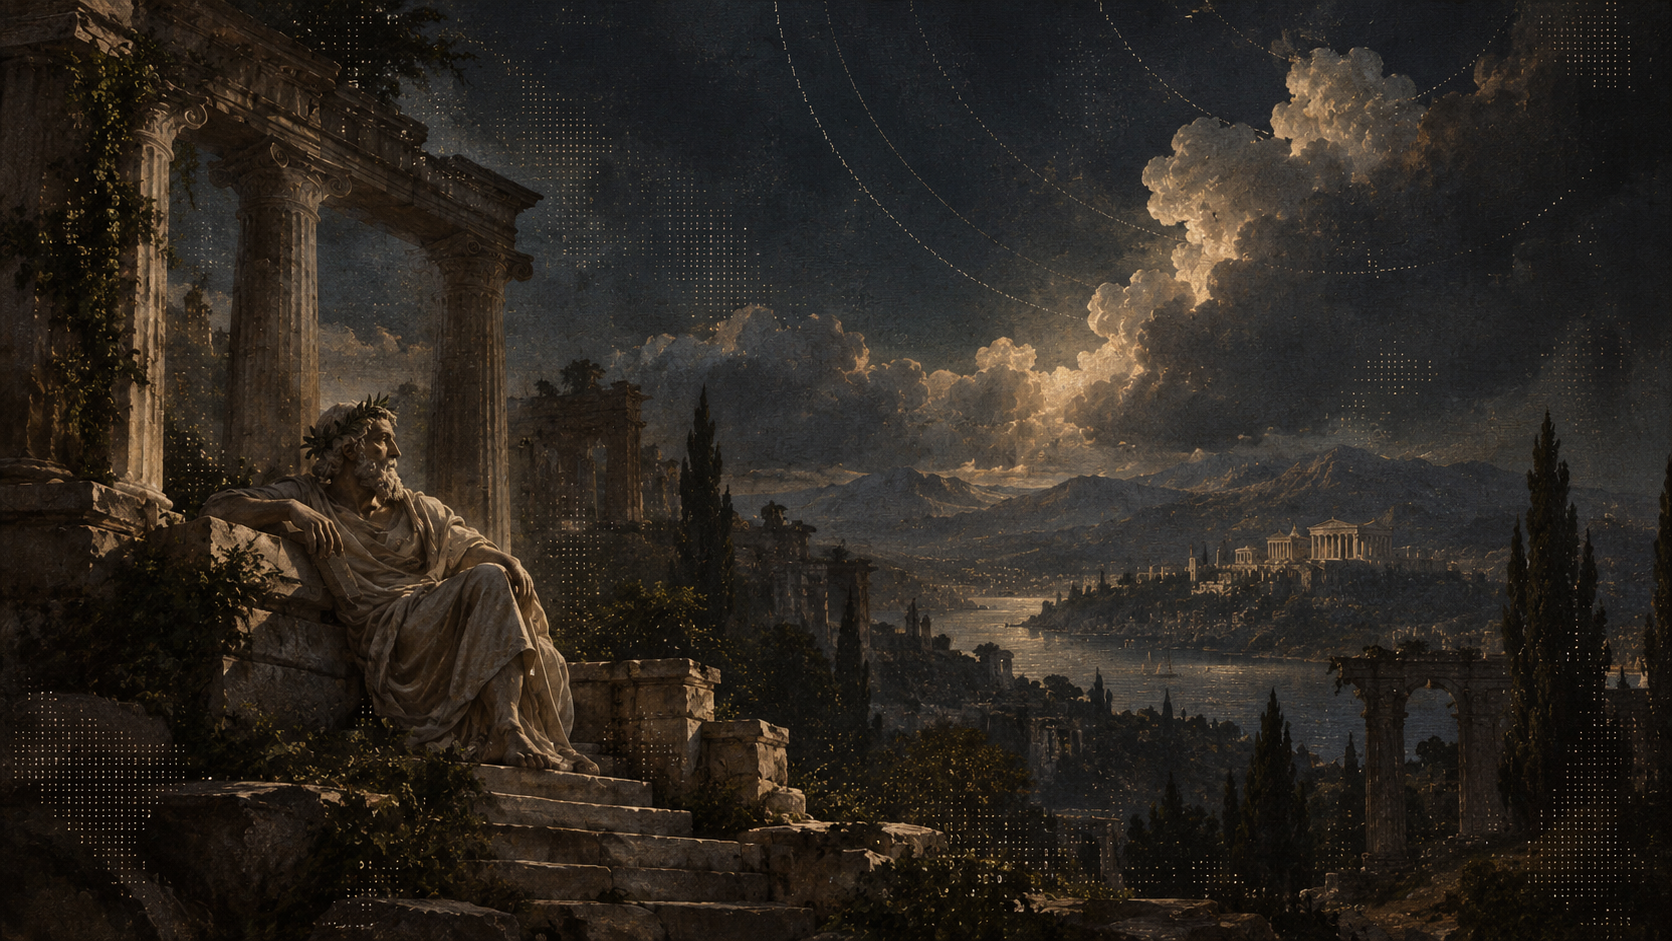
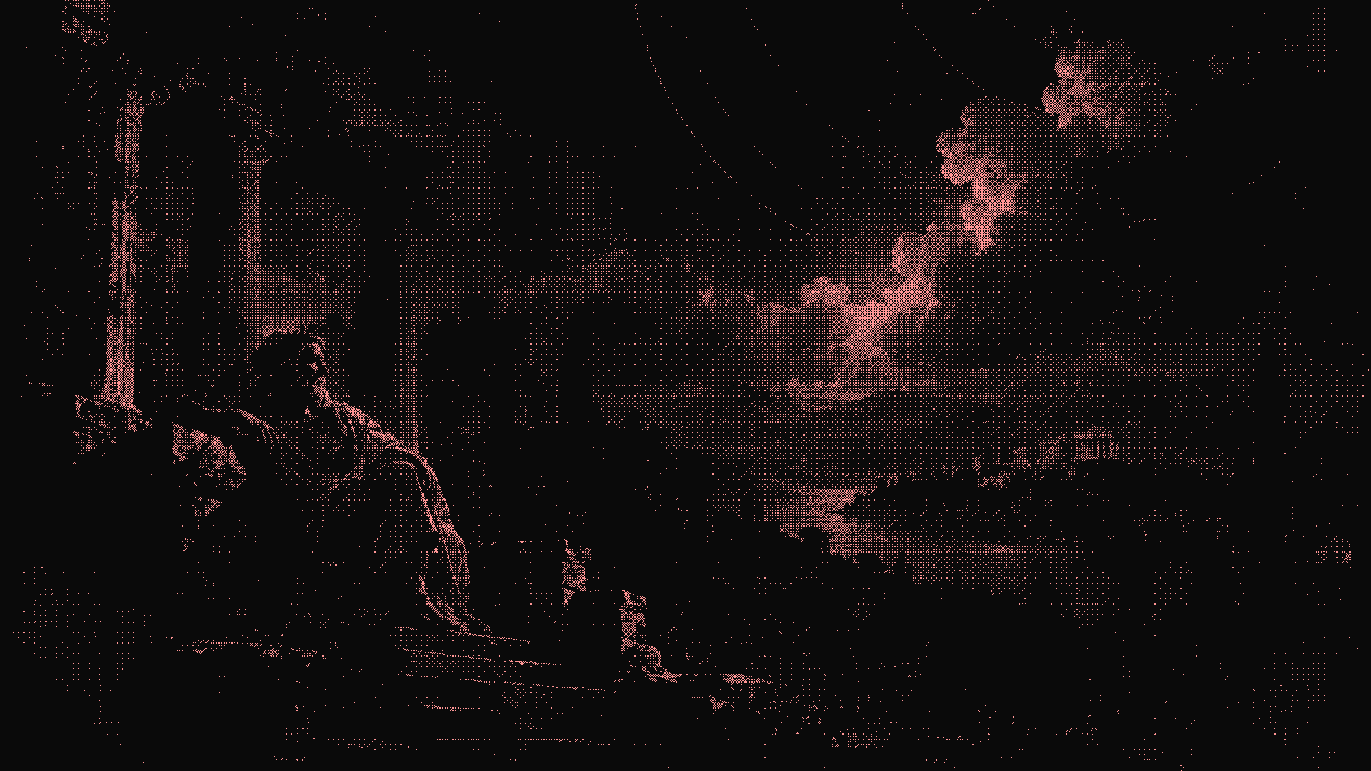
chore: the hero and footer art are the dithered versions

diff --git a/src/styles/global.css b/src/styles/global.css
@@ -271,43 +271,44 @@ section[id] {
 /* ------------------------------------------------------------------ */
 
 /*
- * Two layers over the painting: a pool of dark behind the copy so it reads
- * wherever the columns or clouds fall, and a top-to-bottom wash that settles
- * the upper and lower edges into the page.
+ * Two layers over the art: a pool of dark behind the copy so it reads
+ * wherever the dither falls, and a top-to-bottom wash that settles the upper
+ * and lower edges into the page. Both are light, since the art is mostly
+ * dark already and a heavier wash leaves nothing of it to see.
  */
 .hero-scrim {
   background:
-    radial-gradient(ellipse 58% 52% at 50% 42%, rgba(6, 6, 6, 0.86), rgba(6, 6, 6, 0) 74%),
+    radial-gradient(ellipse 52% 46% at 50% 42%, rgba(6, 6, 6, 0.6), rgba(6, 6, 6, 0) 72%),
     linear-gradient(
       to bottom,
-      rgba(6, 6, 6, 0.72) 0%,
-      rgba(6, 6, 6, 0.25) 35%,
-      rgba(6, 6, 6, 0.15) 70%,
-      rgba(6, 6, 6, 0.85) 100%
+      rgba(6, 6, 6, 0.35) 0%,
+      rgba(6, 6, 6, 0) 30%,
+      rgba(6, 6, 6, 0) 75%,
+      rgba(6, 6, 6, 0.6) 100%
     );
 }
 
 .footer-scrim {
   background:
-    radial-gradient(ellipse 56% 46% at 50% 36%, rgba(6, 6, 6, 0.72), rgba(6, 6, 6, 0) 74%),
+    radial-gradient(ellipse 50% 52% at 50% 44%, rgba(6, 6, 6, 0.7), rgba(6, 6, 6, 0) 72%),
     linear-gradient(
       to bottom,
-      rgba(6, 6, 6, 0.5) 0%,
-      rgba(6, 6, 6, 0.05) 45%,
-      rgba(6, 6, 6, 0.4) 72%,
-      rgba(6, 6, 6, 0.95) 100%
+      rgba(6, 6, 6, 0.25) 0%,
+      rgba(6, 6, 6, 0) 40%,
+      rgba(6, 6, 6, 0.1) 75%,
+      rgba(6, 6, 6, 0.75) 100%
     );
 }
 
-/* On a phone the crop lands on pale stone right behind the copy. */
+/* On a phone the copy runs the full width, over more of the art. */
 @media (max-width: 639px) {
   .hero-scrim {
     background: linear-gradient(
       to bottom,
-      rgba(6, 6, 6, 0.86) 0%,
-      rgba(6, 6, 6, 0.8) 55%,
-      rgba(6, 6, 6, 0.3) 82%,
-      rgba(6, 6, 6, 0.85) 100%
+      rgba(6, 6, 6, 0.6) 0%,
+      rgba(6, 6, 6, 0.5) 55%,
+      rgba(6, 6, 6, 0.15) 82%,
+      rgba(6, 6, 6, 0.6) 100%
     );
   }
 }
